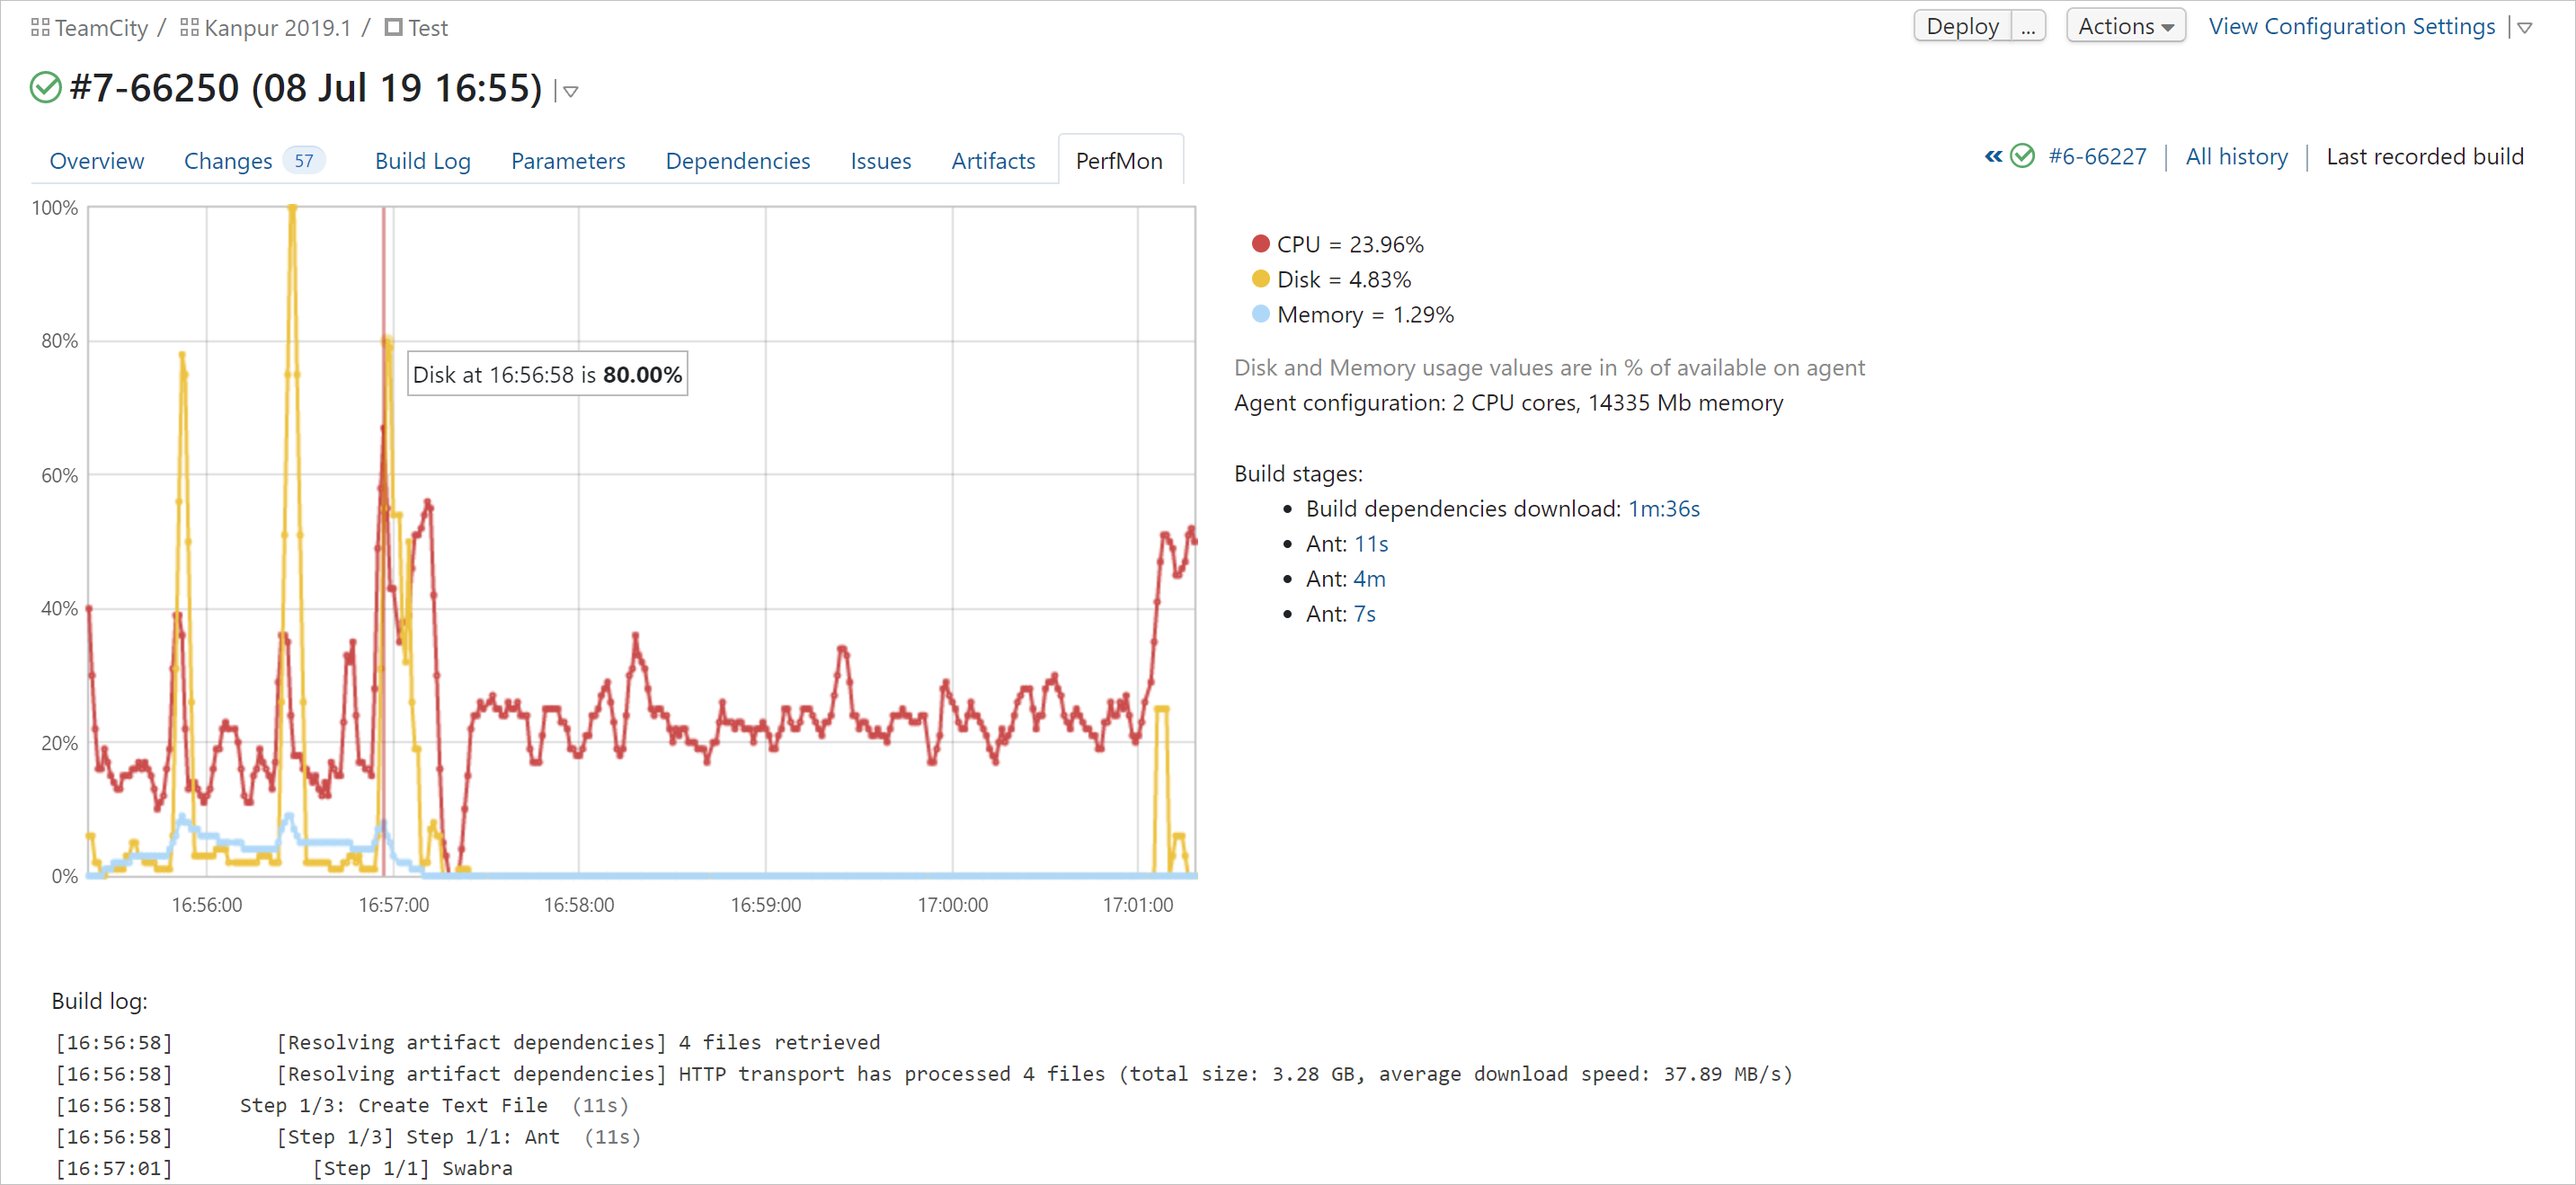
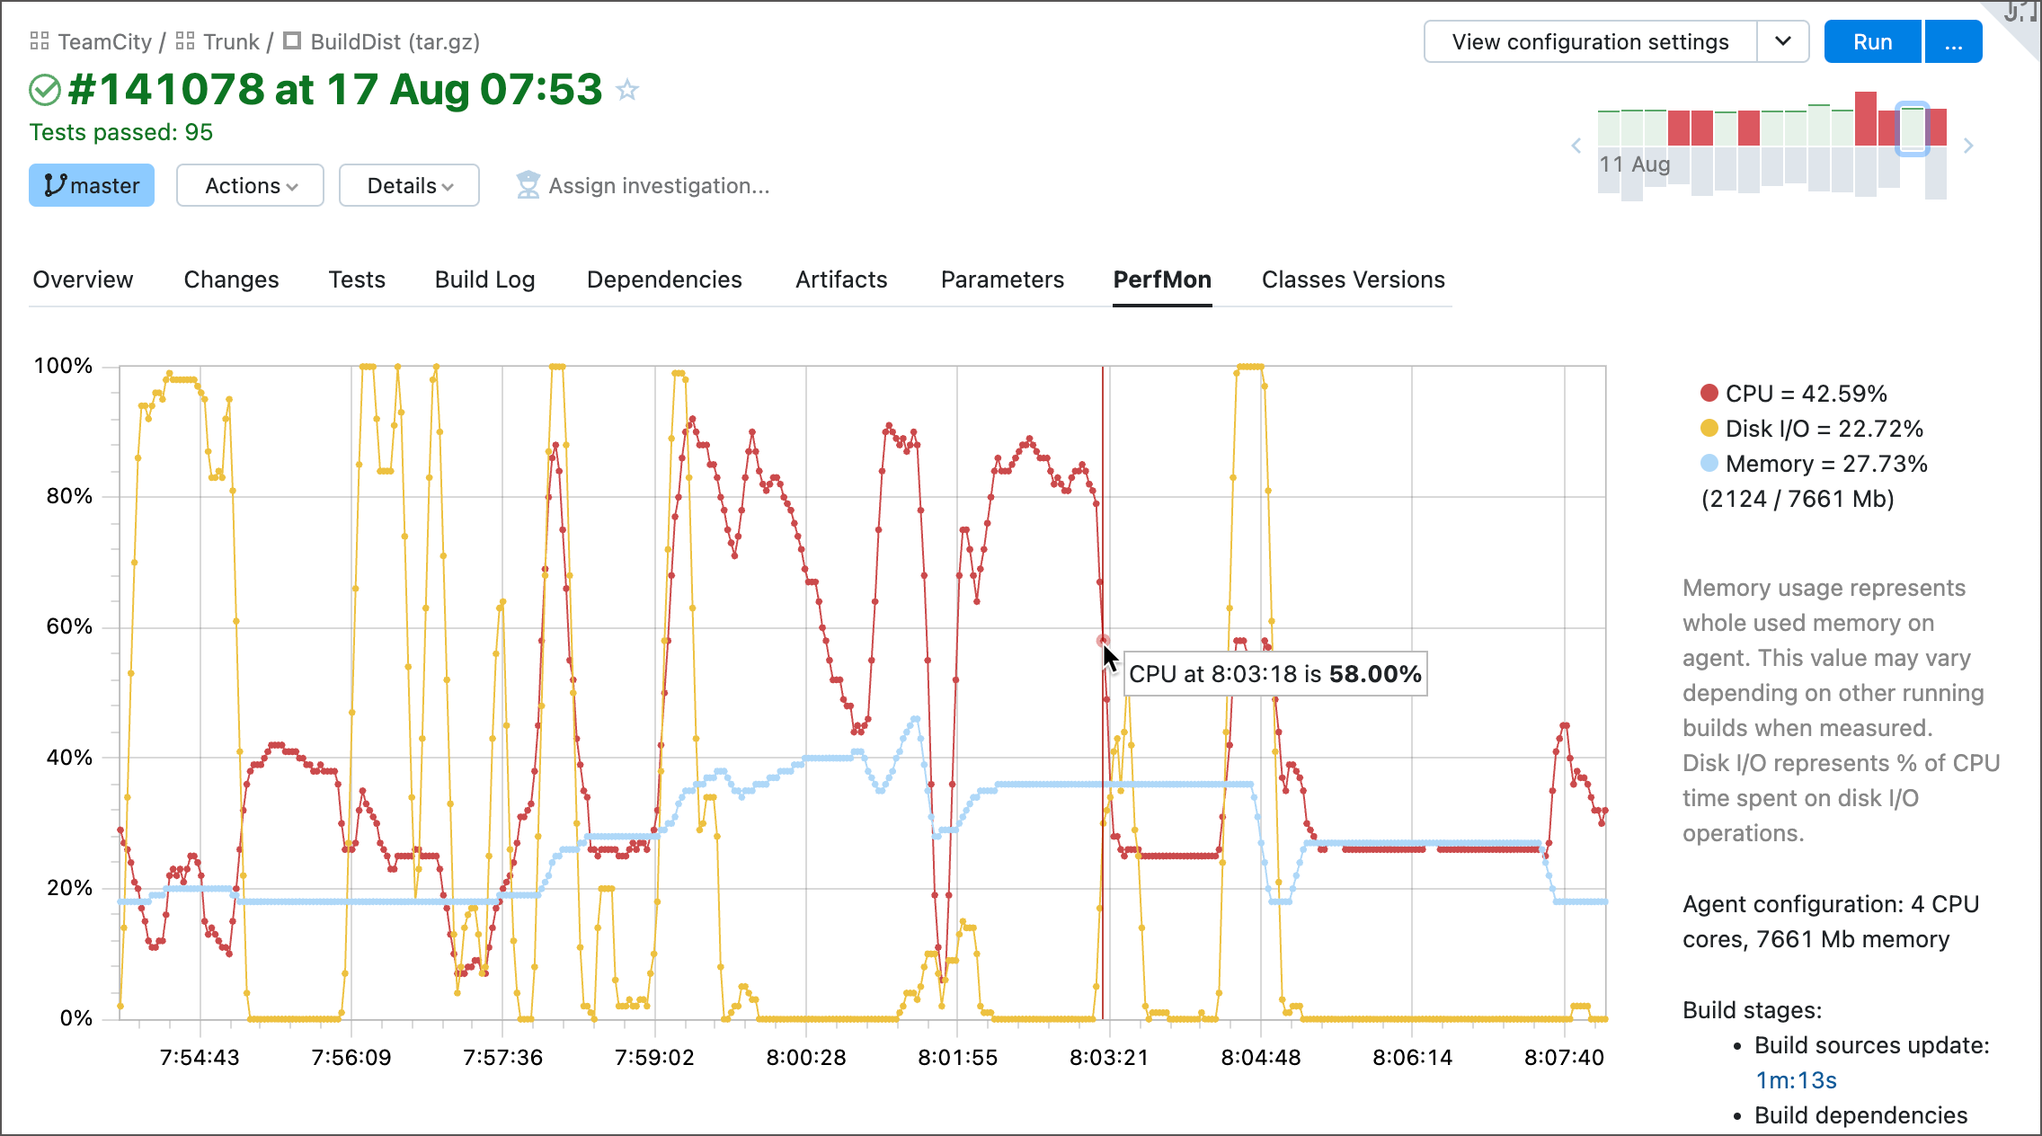
TW-82857 PerfMon absolute values

diff --git a/topics/performance-monitor.md b/topics/performance-monitor.md
@@ -14,6 +14,6 @@ If you run a build agent [as a Windows service](start-teamcity-agent.md#Build+Ag
 
 After you enable the Performance Monitor [build feature](adding-build-features.md) for a build configuration, the __Build Results__ page of each newly run build in this configuration will contain the __PerfMon__ tab with a graph of performance statistics. The _CPU_ value reflects the average CPU load during the build. The _Disk I/O_ shows how much of the CPU time is spent on disk input-output operations. The available _Memory_ value is calculated relatively to the physical memory of the agent machine.
 
-Clicking on a point in the graph displays the corresponding value (CPU on a screenshot below) as well as the build log with the highlighted fragment for the selected time:
+Click any point on the graph to view the corresponding value (CPU on a screenshot below) and view the portion of the build log that corresponds to this timeframe.
 
 <img src="performance-monitor.png" width="750" alt="Performance monitor"/>

diff --git a/topics/what-s-new-in-teamcity.md b/topics/what-s-new-in-teamcity.md
@@ -85,6 +85,7 @@ Learn more: [](service-messages.md#Writing+the+File+into+the+Build+Log).
 * If users log into TeamCity using credentials of an external 2FA-protected service, TeamCity does not send additional 2FA requests. Learn more: [](managing-two-factor-authentication.md#Reduce+Excessive+Authorization+Requests).
 * You can now bookmark required agent pools to easily access them from the top of the agents and pools list. Learn more: [](configuring-agent-pools.md#Favorite+Pools).
 * <include src="parallel-tests.md" include-id="alternative-dotnet-parallel-filtering-tcc"/>
+* [](performance-monitor.md) now shows absolute values of the consumed/total agent memory.
 
 
 ## Upgrade Notes
